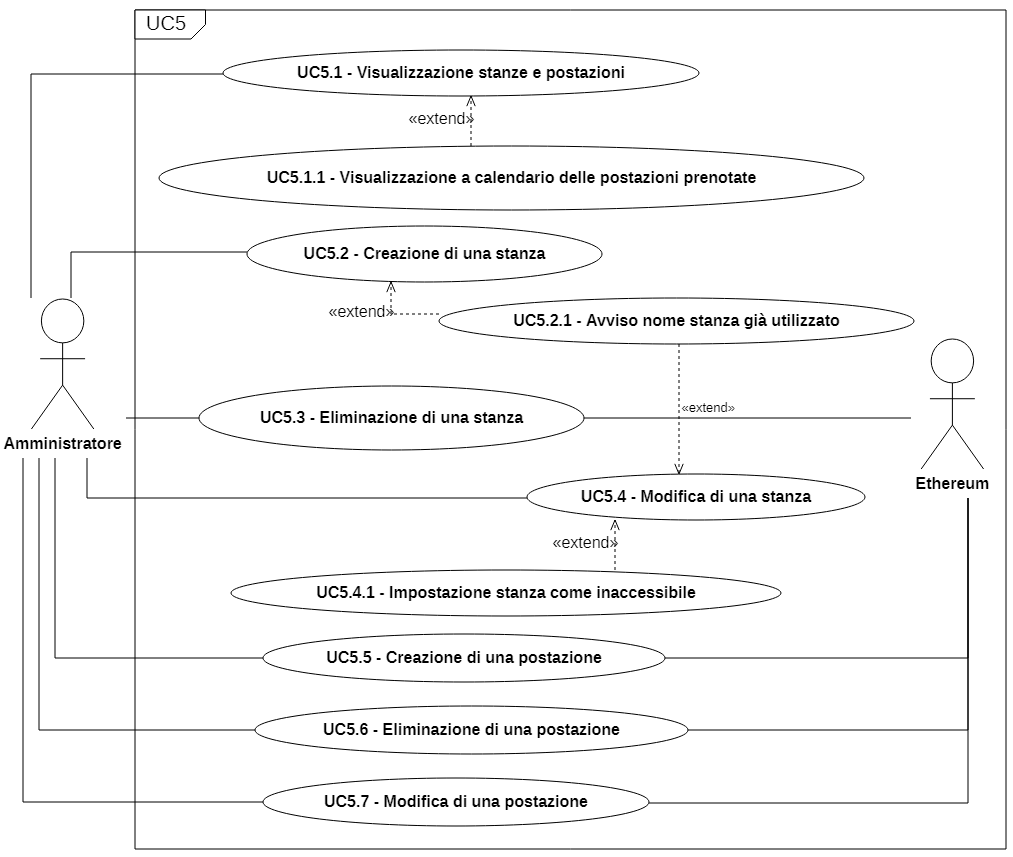
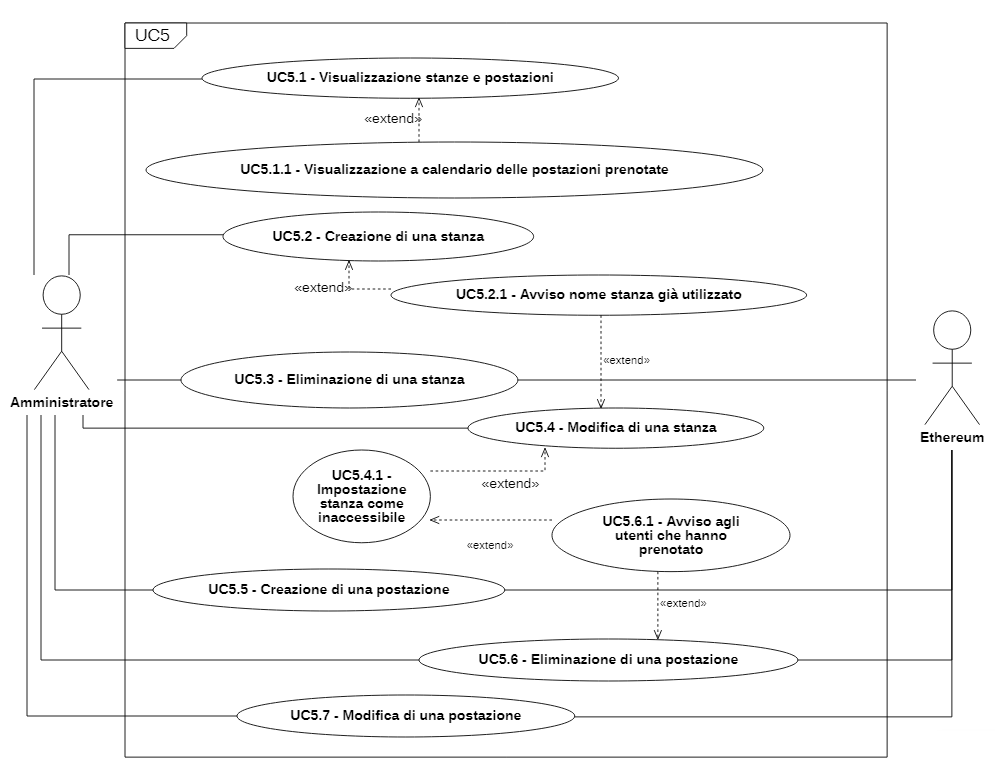
Aggiunto UC5.6.1 #36

diff --git a/esterni/AnalisiDeiRequisiti/res/sections/casiUso.tex b/esterni/AnalisiDeiRequisiti/res/sections/casiUso.tex
@@ -279,6 +279,7 @@ In questa sezione sono riportati tutti i casi d'uso individuati, ordinati per at
 		\item[$-$] Rendere una stanza inaccessibile per alcuni giorni (UC5.4.1).
 		\item[$-$] Se è già presente una stanza con lo stesso nome l'utente viene avvisato (UC5.2.1)
 	\end{itemize}
+
 	\item\textbf{Precondizione:} 
 	L'utente è autenticato.
 	\item\textbf{Postcondizione:}
@@ -293,6 +294,10 @@ In questa sezione sono riportati tutti i casi d'uso individuati, ordinati per at
 	L'utente rende una stanza inaccessibile per alcuni giorni.
 	\item\textbf{Scenario principale:} 
 	L'utente imposta le date di inizio e fine del periodo di inaccessibilità della stanza e conferma l'impostazione attraverso un pulsante.
+	\item\textbf{Estensioni:}
+	\begin{itemize}
+		\item[$-$] Cancellazione delle prenotazioni per quella postazione e notifica agli utenti che avevano prenotato (UC5.6.1).
+	\end{itemize}
 	\item\textbf{Precondizione:} 
 	L'utente è autenticato come amministratore e ha raggiunto l'area dedicata a questa azione.
 	\item\textbf{Postcondizione:}
@@ -331,26 +336,46 @@ In questa sezione sono riportati tutti i casi d'uso individuati, ordinati per at
 	L'utente elimina una postazione.
 	\item\textbf{Scenario principale:} 
 	L'utente raggiunge l'area di eliminazione delle postazioni, ne seleziona una ed esegue l'eliminazione. La nuova configurazione della stanza viene inviata ad Ethereum.
+	\item\textbf{Estensioni:}
+	\begin{itemize}
+		\item[$-$] Cancellazione delle prenotazioni per quella postazione e notifica a gli utenti che avevano prenotato (UC5.6.1).
+	\end{itemize}
 	\item\textbf{Precondizione:} 
 	L'utente è autenticato come amministratore.
 	\item\textbf{Postcondizione:}
 	Una postazione è stata eliminata.
 \end{itemize}
 
+\subsection{ UC5.6.1 - Avviso agli utenti che hanno prenotato}
+\begin{itemize}
+	\item\textbf{Attori Primari:}
+	amministratore.
+	\item\textbf{Attori Secondari:}
+	dipendente.
+	\item\textbf{Descrizione:}
+	gli utenti che hanno prenotato una postazione che è stata non è più disponibile vengono avvisati.
+	\item\textbf{Scenario principale:}
+	se amministratore esegue la modifica o l'eliminazione di una postazione i dipendenti vengono avvisati che le loro prenotazioni non sono più valide.
+	\item\textbf{Precondizione:}
+	l'utente è autenticato come amministratore e alcuni dipendenti hanno prenotato la postazione che verrà resa non disponibile.
+	\item\textbf{Postcondizione:}
+	la postazione non è disponibile e i dipendenti interessati sono stati avvisati.
+\end{itemize}
+
 \subsubsection{ UC5.7 - Modifica di una postazione}
 \begin{itemize}
 	\item\textbf{Attori Primari:}
-	Amministratore 
+	amministratore.
 	\item\textbf{Attori Secondari:}
-	Ethereum
+	Ethereum.
 	\item\textbf{Descrizione:}
-	L'utente modifica gli attributi di una postazione.
+	l'utente modifica gli attributi di una postazione.
 	\item\textbf{Scenario principale:} 
-	L'utente preme sul pulsante per la modifica di una postazione. Gli vengono richiesti i nuovi dati da inserire e la nuova posizione della postazione. Il sistema invia i nuovi dati a Ethereum.
+	l'utente preme sul pulsante per la modifica di una postazione. Gli vengono richiesti i nuovi dati da inserire e la nuova posizione della postazione. Il sistema invia i nuovi dati a Ethereum.
 	\item\textbf{Precondizione:} 
-	L'utente è autenticato come amministratore.
+	l'utente è autenticato come amministratore.
 	\item\textbf{Postcondizione:}
-	Sono stati aggiornati gli attributi della postazione selezionata.
+	sono stati aggiornati gli attributi della postazione selezionata.
 \end{itemize}
 
 \subsubsection{ UC6 - Gestione credenziali}
@@ -361,7 +386,7 @@ In questa sezione sono riportati tutti i casi d'uso individuati, ordinati per at
 	\label{fig:Gestione credenziali}
 \end{figure}
 \begin{itemize}
-           	\item\textbf{Attori Primari:} 
+           	\item\textbf{Attori Primari:}
            	Amministratore
            	\item\textbf{Descrizione:} 
            	L'amministratore visualizza, crea, modifica ed elimina le credenziali di tutti gli altri utenti.

diff --git a/esterni/AnalisiDeiRequisiti/main.tex b/esterni/AnalisiDeiRequisiti/main.tex
@@ -13,7 +13,7 @@
 
 \newcommand{\docNome}{ ANALISI DEI REQUISITI }
 \newcommand{\docNomeProgetto}{  BlockCOVID: supporto digitale al contrasto della pandemia }
-\newcommand{\docVersione}{0.0.14}
+\newcommand{\docVersione}{0.0.15}
 \newcommand{\docStatus}{in redazione}
 \newcommand{\docUso}{esterno}
 \newcommand{\docDescrizione}{

diff --git a/esterni/AnalisiDeiRequisiti/res/registro.tex b/esterni/AnalisiDeiRequisiti/res/registro.tex
@@ -10,6 +10,8 @@
 		\endfirsthead
 		
 		% ----- Modificare da qui -----
+		0.0.15 & Aggiunto UC5.6.1 & 2021-01-03 & Ivan Piacere & Analista \\
+		\hline
 		0.0.14 & Correzione UC7 & 2021-01-03 & Ivan Piacere & Analista \\
 		\hline
 		0.0.13 & Correzione UC5 & 2021-01-03 & Ivan Piacere & Analista \\
